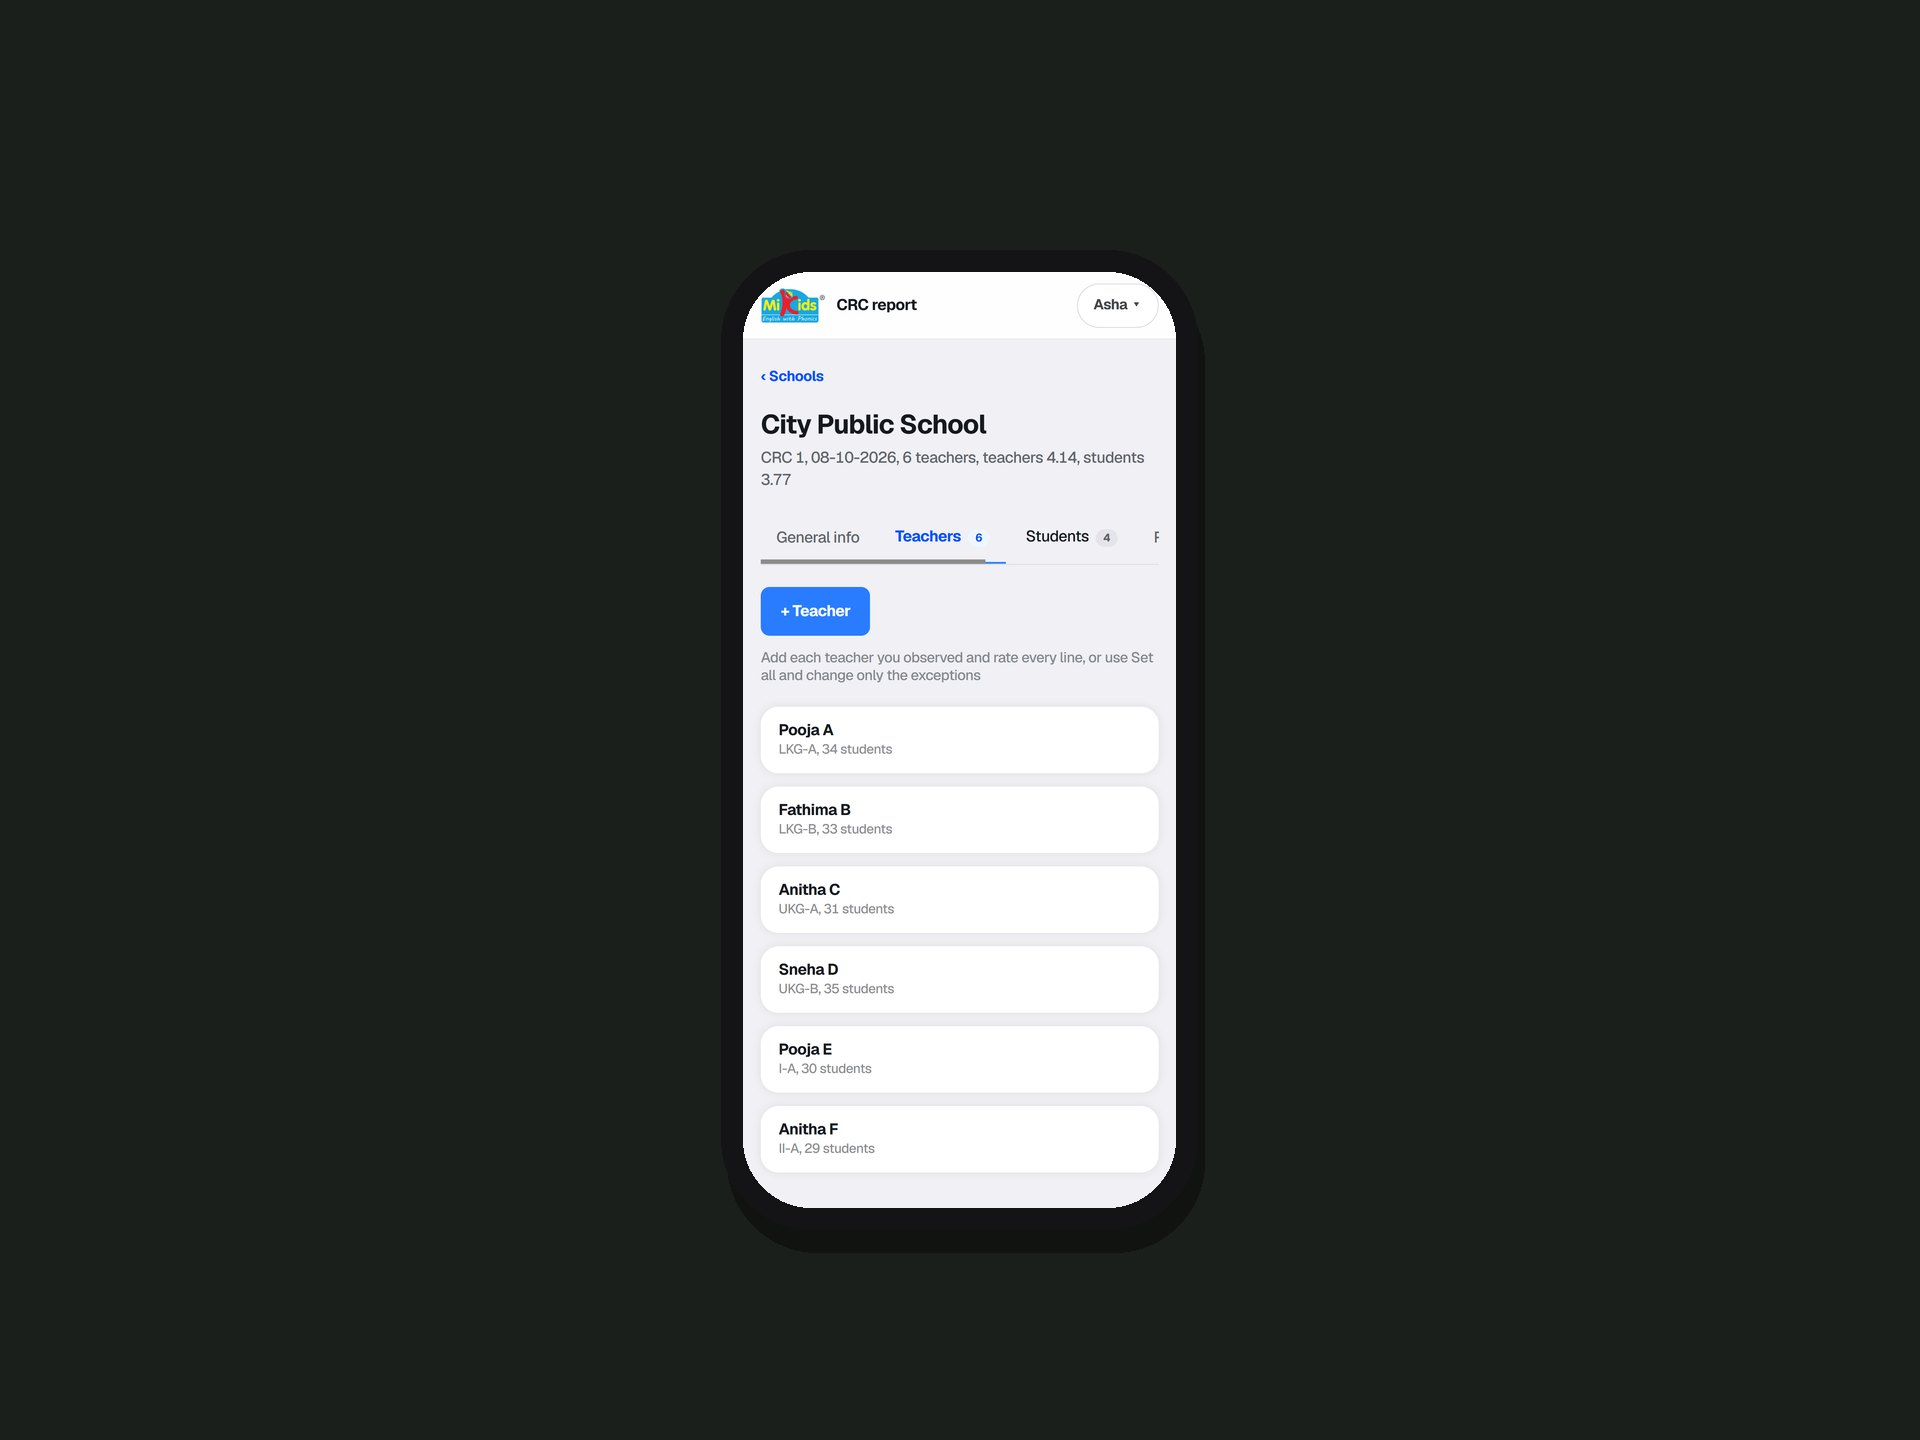
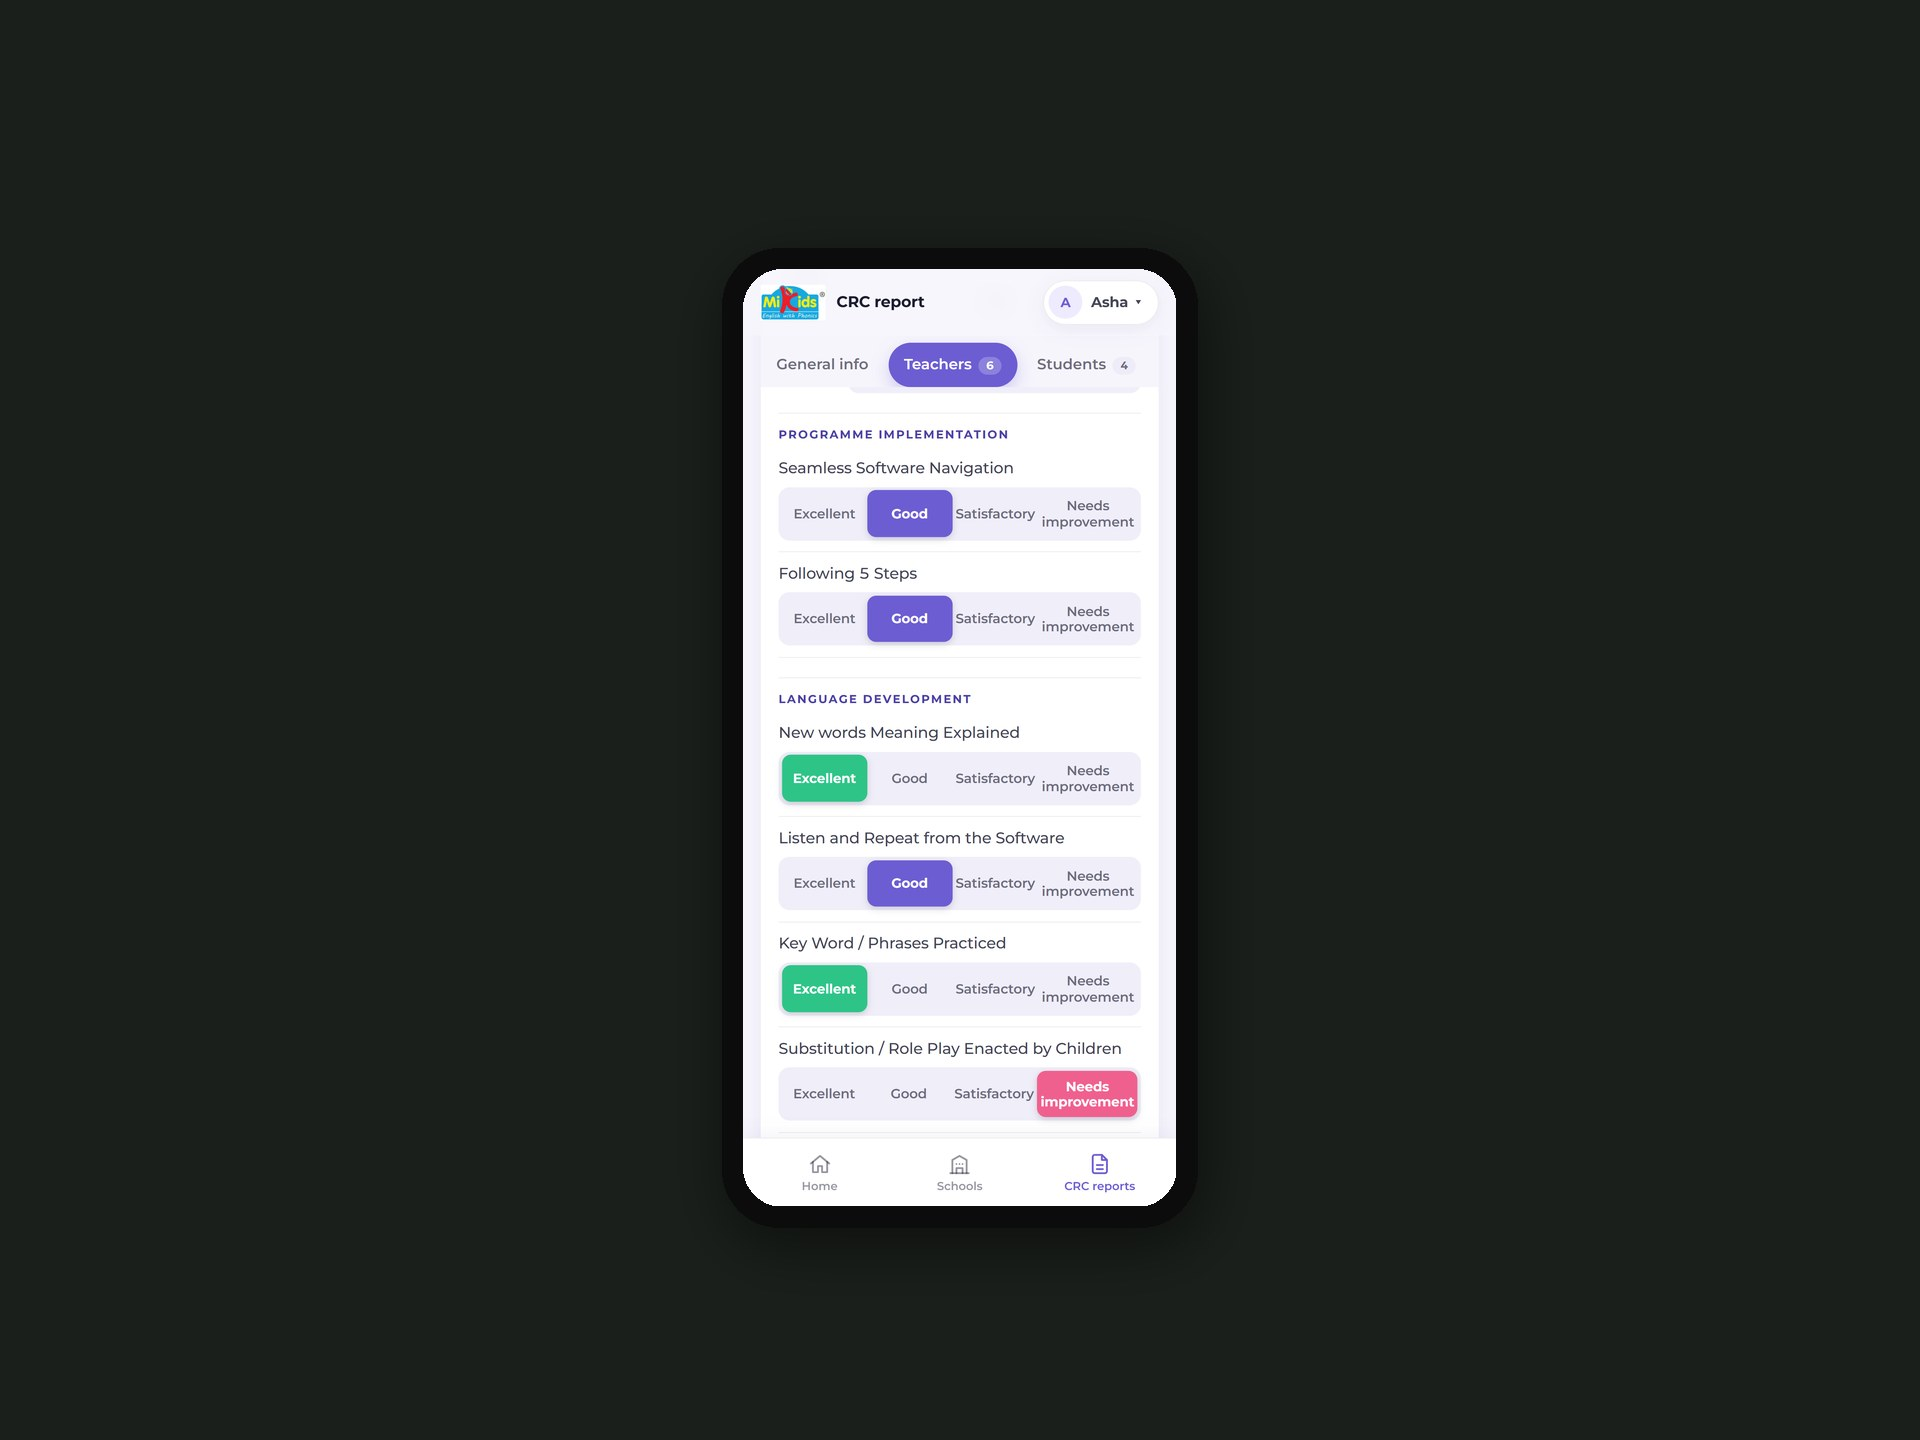
Update CRC app screenshots to the new design

diff --git a/client/src/data/sections.ts b/client/src/data/sections.ts
@@ -169,10 +169,8 @@ export const projects: Project[] = [
       },
     ],
     images: [
-      { src: "/images/work/crc-boy-eoy.webp", caption: "BOY vs EOY for the same school: teachers 4.14 to 4.61, students 3.77 to 4.29" },
-      { src: "/images/work/crc-report-p2.webp", caption: "Generated report, page 2: student scores by level (BOY)" },
-      { src: "/images/work/crc-report-p3.webp", caption: "Generated report, page 3: teacher scores by parameter (BOY)" },
-      { src: "/images/work/crc-report.jpg", caption: "The report tab on the phone" },
+      { src: "/images/work/crc-report.jpg", caption: "Report tab: page 1 of the generated report" },
+      { src: "/images/work/crc-dashboard.jpg", caption: "Home dashboard" },
     ],
   },
 ];

diff --git a/client/src/persona.css b/client/src/persona.css
@@ -140,7 +140,3 @@
     100% { transform: translate(54px, 42px) rotate(9deg) scale(0.91); z-index: 0; }
   }
 }
-/* report pages are portrait sheets: keep them readable, not full width */
-.project-figure img[src*="crc-report-p"] { max-width: 760px; margin: 0 auto; border: 1px solid var(--line); background: #fff; }
-
-.project-figure img[src*="crc-boy-eoy"] { background: #e9eaee; }
